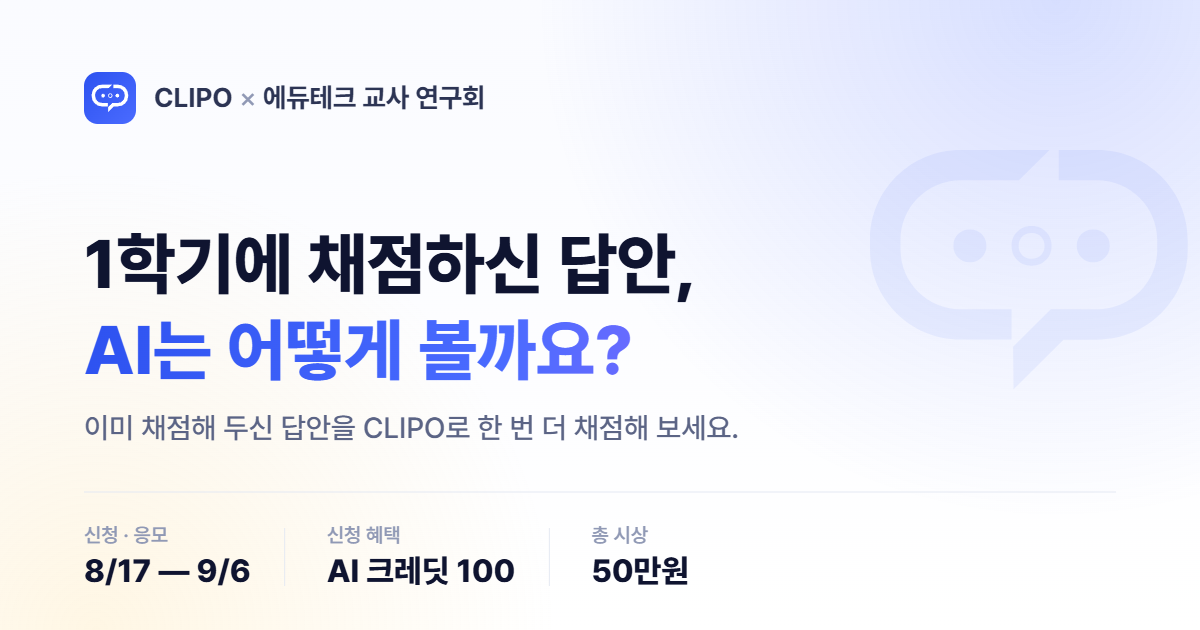
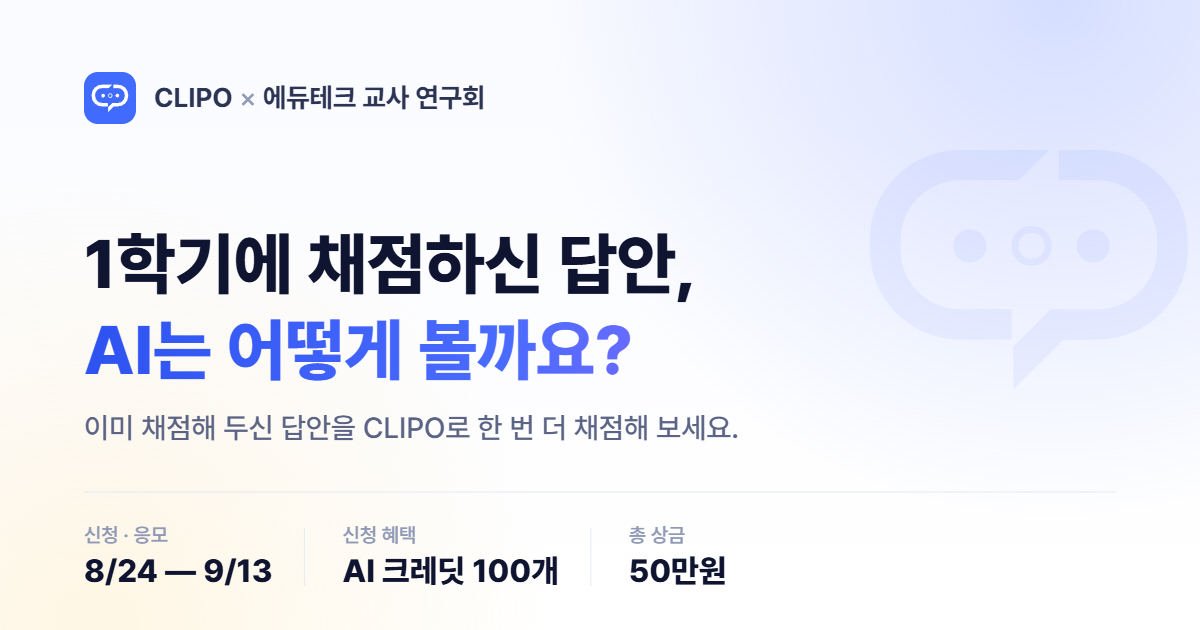
공모전 일정 확정 반영 — 8/24(월) ~ 9/13(일)
2026-08-19 에크연 협의로 확정. 가정치였던 8/17~9/6을 전부 교체.

- 페이지 5곳: meta description, 히어로 기간 카드,
  참여 방법 1·3단계 날짜 배지, 마지막 CTA 하단
- 결과 안내를 9월 셋째 주 → 넷째 주로 조정
  (9/13 마감이 9월 2주차 끝이라 심사 기간을 감안)
- og.png 재생성 — 이미지에 날짜가 그려져 있어 함께 교체
- survey_draft.md·context.md·manual.md 날짜 동기화

Changed region(s): [[0.2775, 0.8143, 0.4625, 0.9349], [0.4933, 0.8143, 0.6167, 0.9349], [0.0925, 0.8746, 0.2467, 0.9349]]

diff --git a/index.html b/index.html
@@ -19,7 +19,7 @@
 <meta name="twitter:title" content="1학기에 채점하신 답안, AI는 어떻게 볼까요?">
 <meta name="twitter:description" content="이미 채점해 두신 답안을 CLIPO로 한 번 더 채점해 보고, 선생님 채점과 얼마나 맞았는지 비교해 남겨주세요.">
 <meta name="twitter:image" content="https://obkim-lgtm.github.io/clipo-contest/og.png">
-<meta name="description" content="에듀테크 교사 연구회 회원 초·중·고 교사를 위한 AI 채점 잘 되는 평가 공모전. 1학기에 채점하신 답안을 CLIPO로 다시 채점해 보고 평가계획 링크와 경험을 남기시면 응모 완료. 8/17 신청 시작, 9/6 마감. 총 시상 50만원.">
+<meta name="description" content="에듀테크 교사 연구회 회원 초·중·고 교사를 위한 AI 채점 잘 되는 평가 공모전. 1학기에 채점하신 답안을 CLIPO로 다시 채점해 보고 평가계획 링크와 경험을 남기시면 응모 완료. 8/24 신청 시작, 9/13 마감. 총 시상 50만원.">
 <link rel="stylesheet" href="https://cdn.jsdelivr.net/gh/orioncactus/pretendard@v1.3.9/dist/web/static/pretendard.min.css">
 
 <!-- GA4 — CLIPO 속성(401851990). 이 페이지는 hostName이 clipo.ai가 아니라
@@ -1170,7 +1170,7 @@
     <div class="hero-meta">
       <div class="meta-card">
         <div class="meta-label">신청 · 응모 기간</div>
-        <div class="meta-value">8/17 — 9/6<span class="sub">2026년</span></div>
+        <div class="meta-value">8/24 — 9/13<span class="sub">2026년</span></div>
       </div>
       <div class="meta-card">
         <div class="meta-label">참가 대상</div>
@@ -1249,7 +1249,7 @@
 
     <div class="easy-row">
       <div class="estep dated">
-        <span class="when">8/17 월</span>
+        <span class="when">8/24 월</span>
         <div class="title">참가 신청</div>
         <div class="desc">성함과 CLIPO 아이디만 입력하시면 됩니다. 처음이시라면 CLIPO 가입 후 신청해 주세요.</div>
       </div>
@@ -1259,7 +1259,7 @@
         <div class="desc">AI 크레딧 100개(30일 이용권) 쿠폰을 메일로 보내드립니다. 등록 후 다시 채점해 보세요.</div>
       </div>
       <div class="estep dated">
-        <span class="when">9/6 일 마감</span>
+        <span class="when">9/13 일 마감</span>
         <div class="title">응모하기</div>
         <div class="desc">
           신청 후 응모 폼에서 평가계획 링크와 경험을 작성해 주세요.
@@ -1267,7 +1267,7 @@
         </div>
       </div>
       <div class="estep dated">
-        <span class="when">9월 셋째 주</span>
+        <span class="when">9월 넷째 주</span>
         <div class="title">수상 결과 안내</div>
         <div class="desc">심사는 에듀테크 교사 연구회 운영진 선생님들이 맡습니다.</div>
       </div>
@@ -1400,7 +1400,7 @@
     <span class="arrow">→</span>
   </a>
   <div class="final-meta">
-    신청 · 응모 기간 <strong>2026. 8. 17 · 월 ~ 9. 6 · 일</strong>
+    신청 · 응모 기간 <strong>2026. 8. 24 · 월 ~ 9. 13 · 일</strong>
   </div>
 </section>
 
